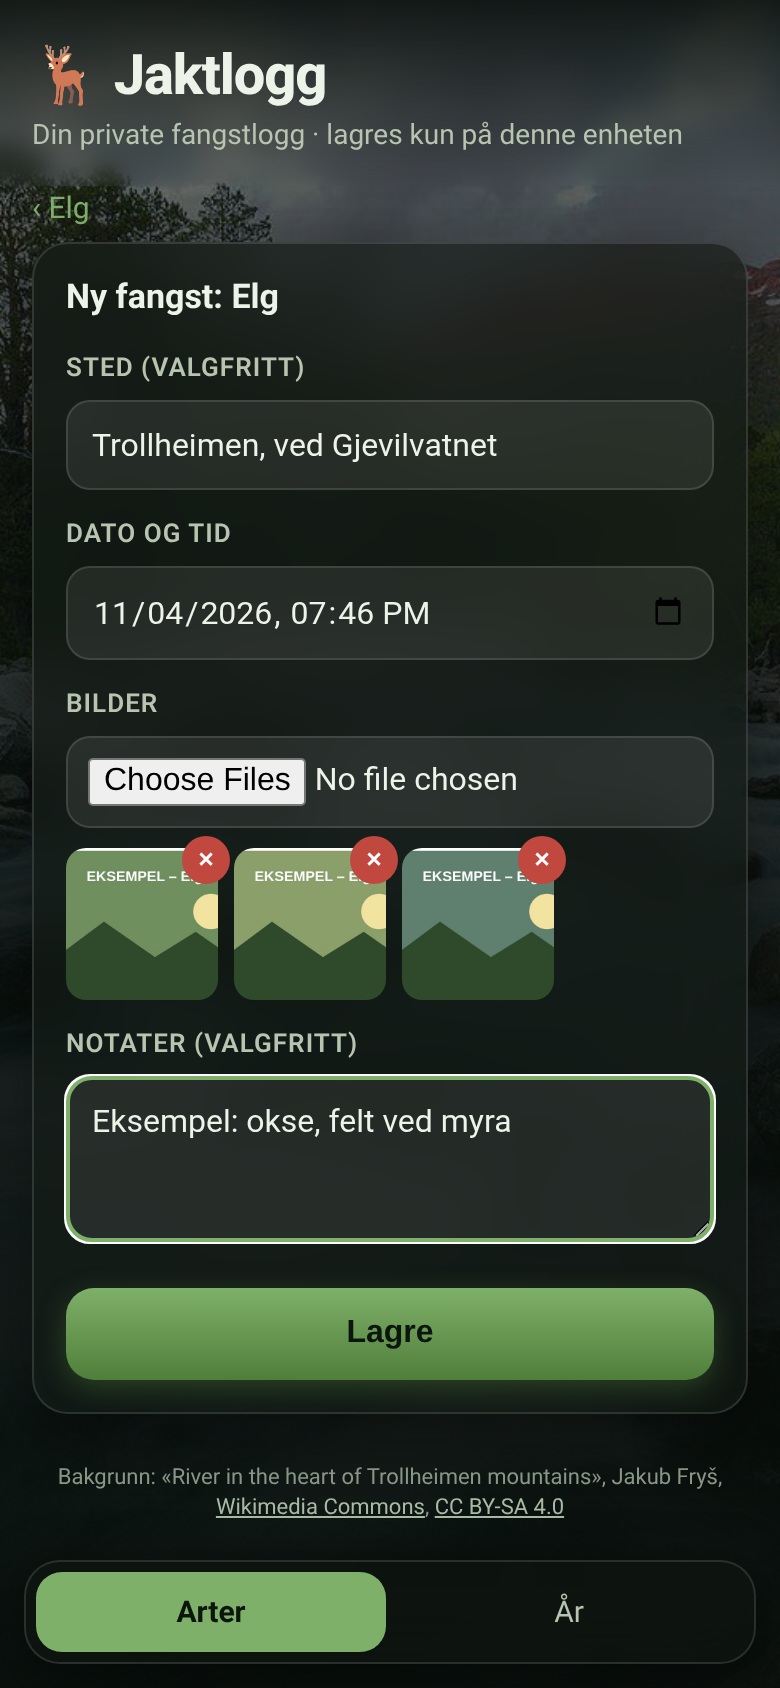
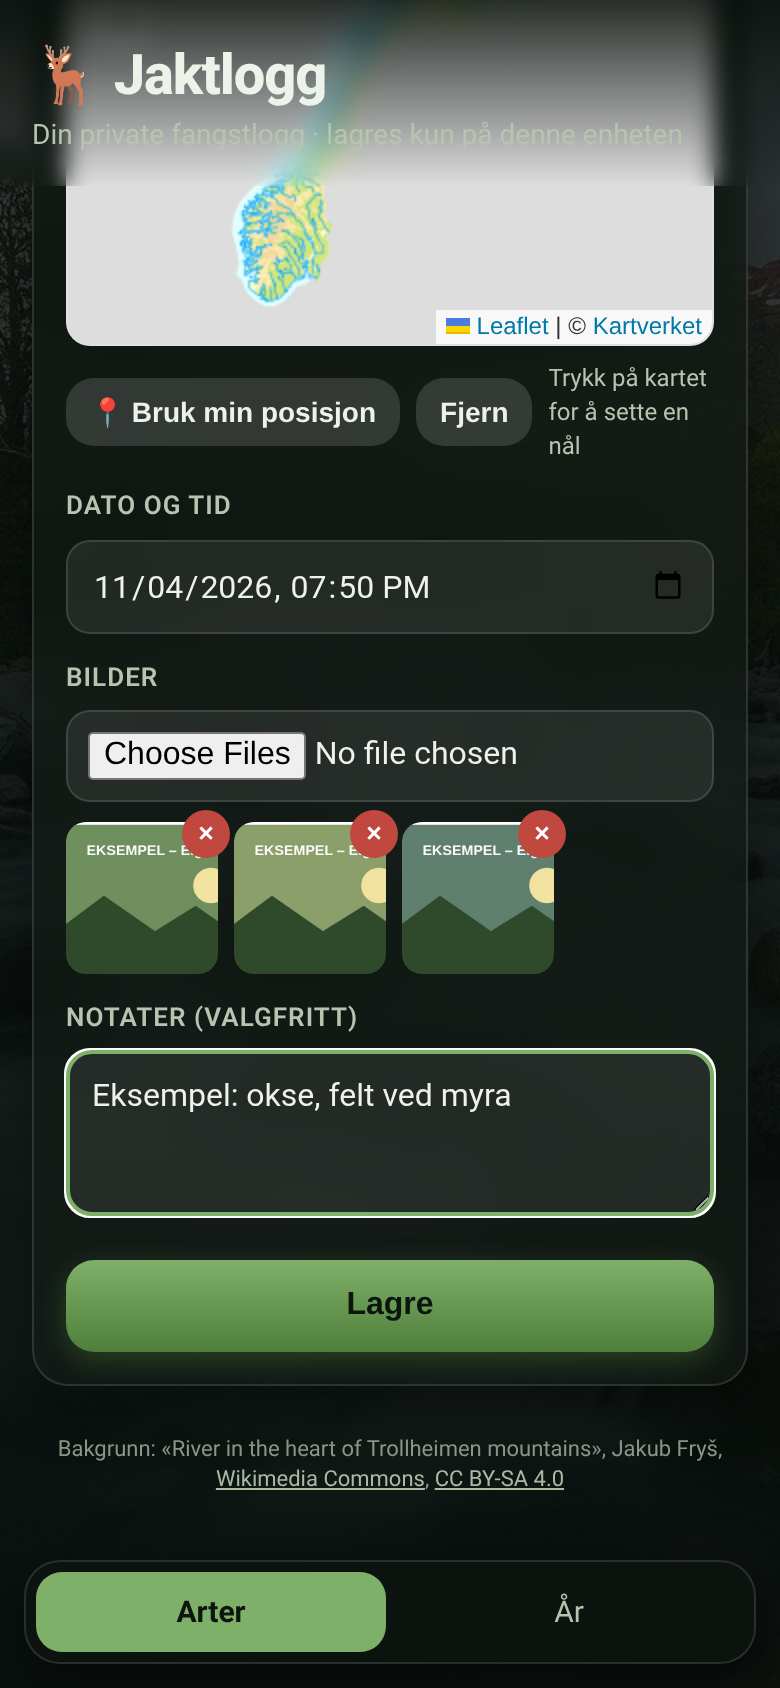
Jaktlogg: topo map (Kartverket, OpenTopoMap fallback) for entry position, detail map, year map view

diff --git a/index.html b/index.html
@@ -1,6 +1,8 @@
 <!DOCTYPE html>
 <html lang="no"><head><meta charset="utf-8"><meta name="viewport" content="width=device-width,initial-scale=1">
 <title>Jaktlogg</title>
+<link rel="stylesheet" href="https://unpkg.com/leaflet@1.9.4/dist/leaflet.css">
+<script src="https://unpkg.com/leaflet@1.9.4/dist/leaflet.js"></script>
 <style>
 :root{--g:#7fb069;--gd:#4f7f3a;--t:#eef3ea;--m:#b7c4b0;--card:rgba(20,28,22,.62);--line:rgba(255,255,255,.12)}
 *{box-sizing:border-box}html,body{margin:0}
@@ -44,6 +46,10 @@ input[type=file]{padding:10px}input[type=date]{color-scheme:dark}
 .nphoto{position:absolute;top:8px;right:8px;background:rgba(0,0,0,.65);color:#fff;font-size:12px;border-radius:999px;padding:2px 8px}.card{position:relative}
 .gal{display:flex;overflow-x:auto;scroll-snap-type:x mandatory;gap:8px;border-radius:14px}.gal img{flex:0 0 100%;scroll-snap-align:center;aspect-ratio:4/3;object-fit:cover;border-radius:14px}
 .dots{text-align:center;color:var(--m);font-size:13px;margin-top:6px}
+.map{height:220px;border-radius:12px;margin-top:8px;border:1px solid var(--line);z-index:0}.map.big{height:460px;margin-top:16px}
+.maprow{display:flex;gap:8px;margin-top:8px;align-items:center}.maprow .btn{width:auto;padding:9px 12px;font-size:14px}.maprow small{color:var(--m);font-size:12px;flex:1}
+.emk{font-size:22px;line-height:30px;text-align:center;background:rgba(14,20,15,.85);border:2px solid var(--g);border-radius:50%;width:34px!important;height:34px!important}
+.leaflet-popup-content{margin:8px;color:#111}.leaflet-popup-content img{width:150px;border-radius:8px;display:block;margin-bottom:4px}
 </style></head><body><div class="app">
 <header><h1>🦌 Jaktlogg</h1><div class="sub" id="hsub">Din private fangstlogg · lagres kun på denne enheten</div></header>
 <main id="view"></main>
@@ -60,7 +66,7 @@ const Store={_db:null,
  add(e){return this._tx('readwrite',s=>s.put(e))},
  delete(id){return this._tx('readwrite',s=>s.delete(id))},
  async migrate(){const raw=localStorage.getItem('jaktlogg.entries');if(!raw)return;
-  for(const e of JSON.parse(raw)){await this.add({id:e.id,species:e.species,datetime:e.datetime||e.date+'T12:00',sted:e.sted??e.area??'',notes:e.notes||'',photos:e.photos||(e.photo?[e.photo]:[])})}
+  for(const e of JSON.parse(raw)){await this.add({id:e.id,species:e.species,datetime:e.datetime||e.date+'T12:00',sted:e.sted??e.area??'',notes:e.notes||'',photos:e.photos||(e.photo?[e.photo]:[]),...(e.lat!=null?{lat:e.lat,lng:e.lng}:{})})}
   localStorage.removeItem('jaktlogg.entries')}};
 
 /* Arter med jakttid i FOR-2022-01-21-128 (Lovdata) */
@@ -70,6 +76,13 @@ const MND=['januar','februar','mars','april','mai','juni','juli','august','septe
 const $=id=>document.getElementById(id),esc=s=>String(s??'').replace(/[&<>"]/g,c=>'&#'+c.charCodeAt(0)+';');
 const nowLocal=()=>{const d=new Date();return new Date(d-d.getTimezoneOffset()*6e4).toISOString().slice(0,16)};
 const fmt=dt=>{const[d,t]=dt.split('T');return d.split('-').reverse().join('.')+(t?' kl. '+t:'')};
+const EMO=Object.fromEntries(GROUPS.flatMap(g=>g[1]));
+function topo(el,opt){const m=L.map(el,Object.assign({zoomControl:true},opt||{}));let fb=false;
+ const kv=L.tileLayer('https://cache.kartverket.no/v1/wmts/1.0.0/topo/default/webmercator/{z}/{y}/{x}.png',{maxZoom:18,attribution:'© <a href="https://www.kartverket.no/">Kartverket</a>'}).addTo(m);
+ kv.on('tileerror',()=>{if(fb)return;fb=true;m.removeLayer(kv);L.tileLayer('https://{s}.tile.opentopomap.org/{z}/{x}/{y}.png',{maxZoom:17,attribution:'© OpenTopoMap (CC-BY-SA), © OpenStreetMap'}).addTo(m)});
+ return m}
+const NORGE=[[57.9,4.5],[71.2,31.1]];
+const icon=sp=>L.divIcon({className:'emk',html:EMO[sp]||'📍',iconSize:[34,34],iconAnchor:[17,17]});
 let tab='arter',yearSel=null,group='art',pending=[];
 
 function setTab(t){tab=t;$('t-arter').classList.toggle('on',t==='arter');$('t-ar').classList.toggle('on',t==='ar');t==='arter'?renderArter():renderAr()}
@@ -94,16 +107,27 @@ function renderForm(sp){pending=[];
  $('view').innerHTML=`<button class="back" id="bk">‹ ${esc(sp)}</button><div class="panel"><h2 style="margin-top:0">Ny fangst: ${esc(sp)}</h2><form id="f">
  ${sp==='Annet'?'<label>Art<input id="other" placeholder="Skriv art" required></label>':''}
  <label>Sted (valgfritt)<input id="sted" placeholder="f.eks. Trollheimen eller «ved Storvatnet»"></label>
+ <label>Posisjon på kart (valgfritt)</label><div class="map" id="fmap"></div>
+ <div class="maprow"><button type="button" class="btn sec" id="gps">📍 Bruk min posisjon</button><button type="button" class="btn sec" id="clr">Fjern</button><small id="pos">Trykk på kartet for å sette en nål</small></div>
  <label>Dato og tid<input type="datetime-local" id="dt" required value="${nowLocal()}"></label>
  <label>Bilder<input type="file" id="photos" accept="image/*" multiple></label><div class="thumbs" id="th"></div>
  <label>Notater (valgfritt)<textarea id="notes" rows="3"></textarea></label>
  <button class="btn" style="margin-top:16px">Lagre</button></form></div>`;
  $('bk').onclick=()=>renderSpecies(sp);
+ let ll=null,pin=null;const fm=topo('fmap');fm.fitBounds(NORGE);
+ const setPos=(p,zoom)=>{ll={lat:+p.lat.toFixed(5),lng:+p.lng.toFixed(5)};if(!pin){pin=L.marker(p,{draggable:true,icon:icon(sp)}).addTo(fm);pin.on('dragend',()=>setPos(pin.getLatLng()))}else pin.setLatLng(p);
+  if(zoom)fm.setView(p,13);$('pos').textContent=`${ll.lat}, ${ll.lng} · dra nålen for å justere`};
+ fm.on('click',e=>setPos(e.latlng));
+ $('clr').onclick=()=>{if(pin)fm.removeLayer(pin);pin=null;ll=null;$('pos').textContent='Trykk på kartet for å sette en nål'};
+ $('gps').onclick=()=>{if(!navigator.geolocation){$('pos').textContent='Posisjon er ikke tilgjengelig i denne nettleseren';return}
+  $('pos').textContent='Henter posisjon …';navigator.geolocation.getCurrentPosition(p=>setPos(L.latLng(p.coords.latitude,p.coords.longitude),true),
+  e=>{$('pos').textContent=e.code===1?'Tilgang til posisjon ble avslått. Trykk på kartet i stedet.':'Fant ikke posisjonen. Trykk på kartet i stedet.'},{enableHighAccuracy:true,timeout:15000})};
+ window._fm=fm;window._setPos=setPos;
  const th=()=>{$('th').innerHTML=pending.map((p,i)=>`<div><img src="${p}" alt=""><button type="button" data-i="${i}" aria-label="Fjern">×</button></div>`).join('');
   $('th').querySelectorAll('button').forEach(b=>b.onclick=()=>{pending.splice(+b.dataset.i,1);th()})};
  $('photos').onchange=async e=>{for(const f of e.target.files)pending.push(await shrink(f));e.target.value='';th()};
  $('f').onsubmit=async ev=>{ev.preventDefault();const species=sp==='Annet'?$('other').value.trim():sp;
-  try{await Store.add({id:Date.now().toString(36)+Math.random().toString(36).slice(2,6),species,datetime:$('dt').value,sted:$('sted').value.trim(),notes:$('notes').value.trim(),photos:pending})}
+  try{await Store.add({id:Date.now().toString(36)+Math.random().toString(36).slice(2,6),species,datetime:$('dt').value,sted:$('sted').value.trim(),notes:$('notes').value.trim(),photos:pending,...(ll?{lat:ll.lat,lng:ll.lng}:{})})}
   catch(err){alert('Kunne ikke lagre: lagringsplassen kan være full.');return}
   renderSpecies(sp)};scrollTo(0,0)}
 
@@ -111,9 +135,10 @@ function shrink(f){return new Promise(ok=>{const r=new FileReader();r.onload=()=
 
 async function detail(id,refresh){const x=(await Store.list()).find(e=>e.id===id);if(!x)return;const n=x.photos.length;
  $('detail').innerHTML=(n?`<div class="gal" id="gal">${x.photos.map(p=>`<img src="${p}" alt="">`).join('')}</div><div class="dots" id="dots">Bilde 1 av ${n}${n>1?' · sveip for flere':''}</div>`:'')+
- `<h2>${esc(x.species)}</h2><p>🕒 <b>${fmt(x.datetime)}</b></p><p>📍 Sted: <b>${esc(x.sted)||'–'}</b></p><p>Notater: <b>${esc(x.notes)||'–'}</b></p>
+ `<h2>${esc(x.species)}</h2><p>🕒 <b>${fmt(x.datetime)}</b></p><p>📍 Sted: <b>${esc(x.sted)||'–'}</b></p><p>Notater: <b>${esc(x.notes)||'–'}</b></p>${x.lat!=null?'<div class="map" id="dmap"></div>':''}
  <button class="btn danger" id="del" style="margin-top:14px">Slett fangst</button><button class="btn sec" id="close" style="margin-top:8px">Lukk</button>`;
  $('m').classList.add('open');if(n>1)$('gal').onscroll=e=>{const i=Math.round(e.target.scrollLeft/e.target.clientWidth)+1;$('dots').textContent=`Bilde ${i} av ${n} · sveip for flere`};
+ if(x.lat!=null){const dm=topo('dmap',{dragging:true});dm.setView([x.lat,x.lng],12);L.marker([x.lat,x.lng],{icon:icon(x.species)}).addTo(dm)}
  $('close').onclick=()=>$('m').classList.remove('open');
  $('del').onclick=async()=>{if(confirm('Slette denne fangsten?')){await Store.delete(id);$('m').classList.remove('open');refresh()}}}
 $('m').onclick=e=>{if(e.target.id==='m')$('m').classList.remove('open')};
@@ -127,10 +152,15 @@ async function renderAr(){const all=await Store.list();const years=[...new Set(a
  const title=k=>group==='art'?k:(m=>MND[+m-1][0].toUpperCase()+MND[+m-1].slice(1))(k.slice(5));
  $('view').innerHTML=`<div class="panel"><div class="chips">${years.map(y=>`<button data-y="${y}" class="${y===yearSel?'on':''}">${y}</button>`).join('')}</div>
  <div class="total">${e.length} <small>fangst${e.length===1?'':'er'} i ${yearSel}</small></div>
- <div class="seg"><button id="g-art" class="${group==='art'?'on':''}">Per art</button><button id="g-mnd" class="${group==='mnd'?'on':''}">Per måned</button></div></div>`+
- keys.map(k=>`<h2>${esc(title(k))} <span class="cnt">${g[k].length}</span></h2><div class="grid">${g[k].map(card).join('')}</div>`).join('');
+ <div class="seg"><button id="g-art" class="${group==='art'?'on':''}">Per art</button><button id="g-mnd" class="${group==='mnd'?'on':''}">Per måned</button><button id="g-kart" class="${group==='kart'?'on':''}">Kart</button></div></div>`+(group==='kart'?'<div class="map big" id="ymap"></div><p class="credit" id="ynote"></p>':''+
+ keys.map(k=>`<h2>${esc(title(k))} <span class="cnt">${g[k].length}</span></h2><div class="grid">${g[k].map(card).join('')}</div>`).join(''));
  document.querySelectorAll('.chips button').forEach(b=>b.onclick=()=>{yearSel=+b.dataset.y;renderAr()});
- $('g-art').onclick=()=>{group='art';renderAr()};$('g-mnd').onclick=()=>{group='mnd';renderAr()};bindCards(renderAr)}
+ $('g-art').onclick=()=>{group='art';renderAr()};$('g-mnd').onclick=()=>{group='mnd';renderAr()};$('g-kart').onclick=()=>{group='kart';renderAr()};bindCards(renderAr);
+ if(group==='kart'){const ym=topo('ymap'),pts=e.filter(x=>x.lat!=null);
+  pts.forEach(x=>L.marker([x.lat,x.lng],{icon:icon(x.species)}).addTo(ym).bindPopup(`${x.photos[0]?`<img src="${x.photos[0]}" alt="">`:''}<b>${esc(x.species)}</b><br>${fmt(x.datetime)}${x.sted?'<br>📍 '+esc(x.sted):''}<br><a href="#" data-open="${x.id}">Åpne fangst</a>`));
+  ym.on('popupopen',ev=>{const a=ev.popup.getElement().querySelector('[data-open]');if(a)a.onclick=z=>{z.preventDefault();detail(a.dataset.open,renderAr)}});
+  pts.length?ym.fitBounds(L.latLngBounds(pts.map(x=>[x.lat,x.lng])).pad(.3),{maxZoom:11}):ym.fitBounds(NORGE);
+  $('ynote').textContent=`${pts.length} av ${e.length} fangster har kartposisjon`}}
 
 Store.migrate().then(renderArter);
 </script></body></html>
